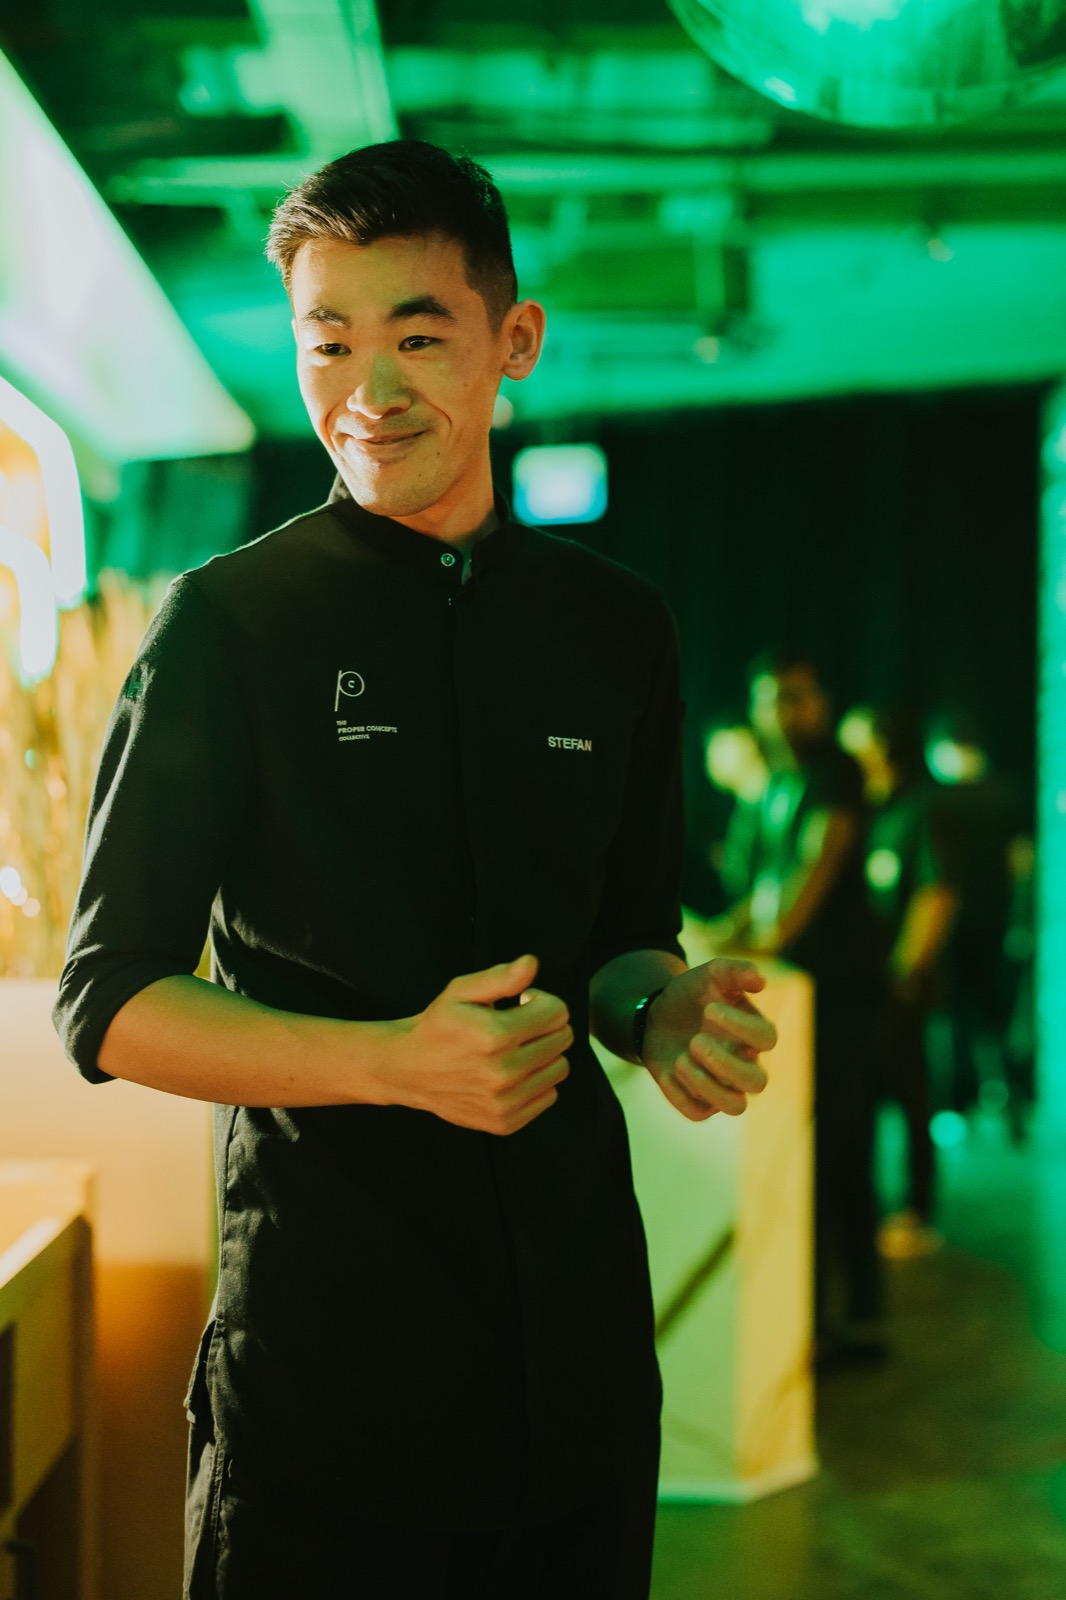
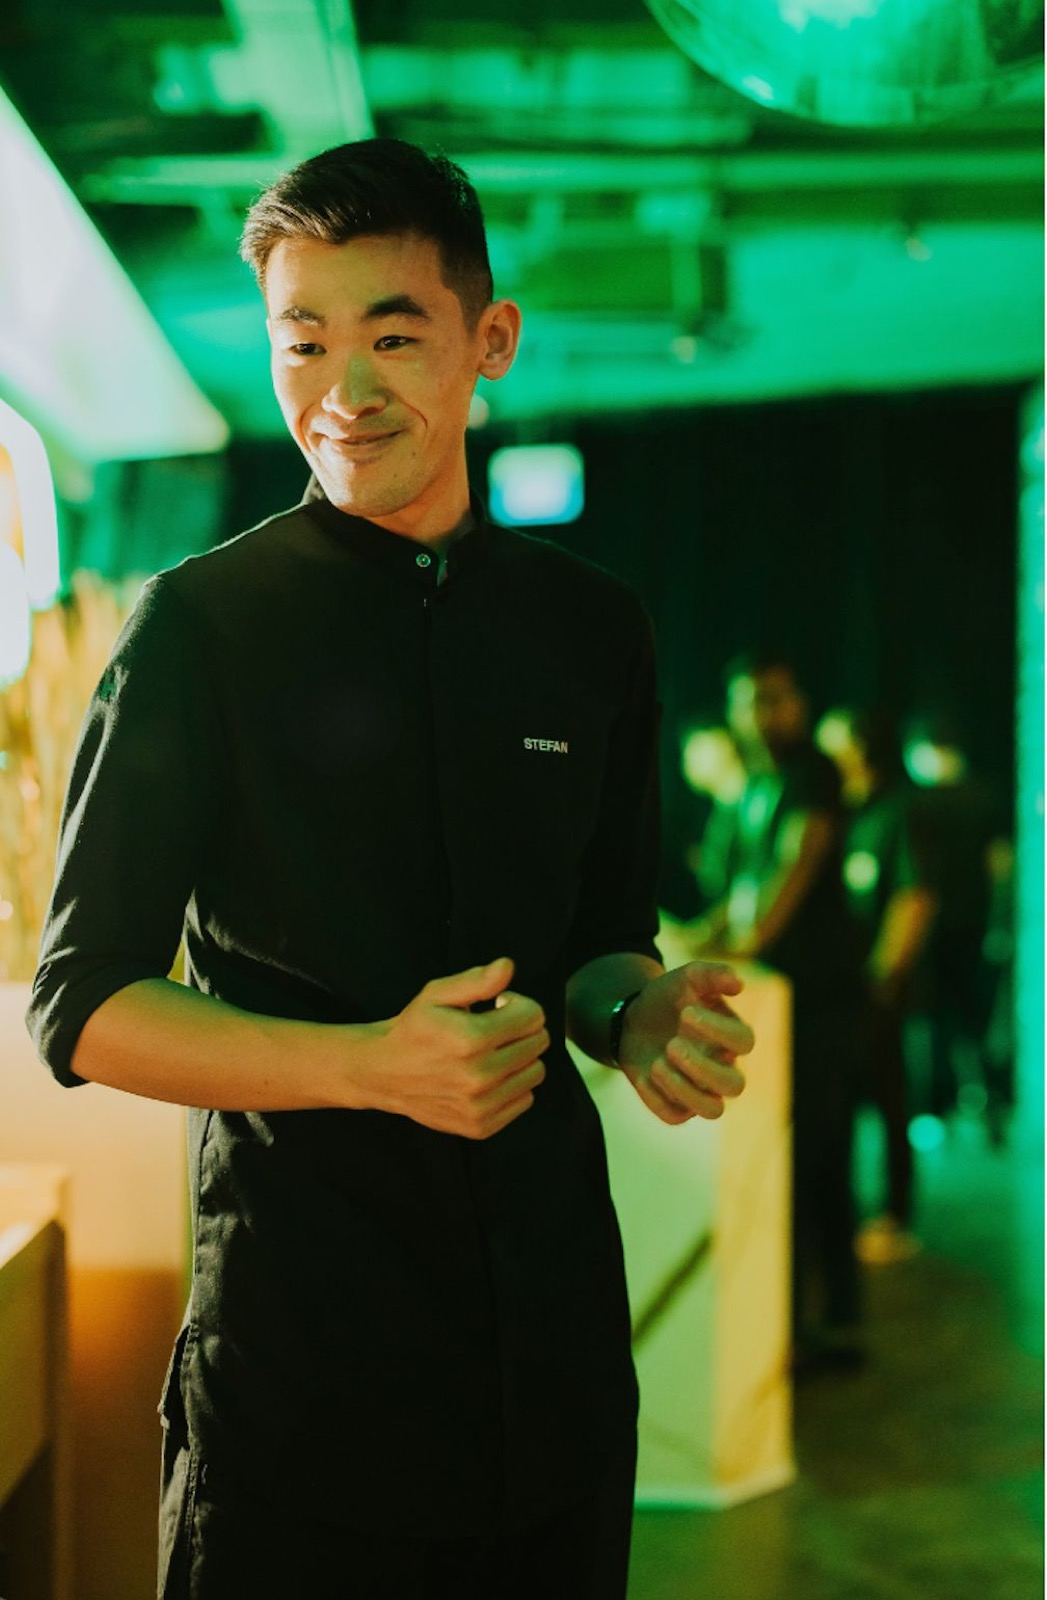
headshot3 cover, Kiln screenshot, D0100424 Heineken donut

diff --git a/index.html b/index.html
@@ -232,8 +232,8 @@
     .kiln-card { position: relative; overflow: hidden; min-height: 380px; display: flex; flex-direction: column; justify-content: flex-end; }
     .kiln-img {
       position: absolute; inset: 0;
-      background-image: url('https://images.unsplash.com/photo-1544025162-d76694265947?auto=format&fit=crop&w=800&q=85');
-      background-size: cover; background-position: center;
+      background-image: url('img/Screenshot_2026-06-03_at_5.26.25_PM.png');
+      background-size: cover; background-position: center 30%;
     }
     .kiln-img::after {
       content: ''; position: absolute; inset: 0;
@@ -628,7 +628,7 @@
   </div>
 
   <div class="cover-right">
-    <img src="img/stefan-portrait.jpg?v=2" alt="Stefan Kam">
+    <img src="img/stefan-portrait.jpg?v=3" alt="Stefan Kam">
   </div>
 
   <div class="scroll-cue">
@@ -833,7 +833,7 @@
 
     <div class="brands-layout">
       <div class="collab-card r">
-        <div class="collab-card-bg" style="background-image:url('img/heineken-2.jpg');background-position:center 40%"></div>
+        <div class="collab-card-bg" style="background-image:url('img/heineken-donut.jpg');background-position:center 40%"></div>
         <div class="collab-content">
           <p class="collab-brand">Heineken</p>
           <h3 class="collab-title">The Maltiverse</h3>